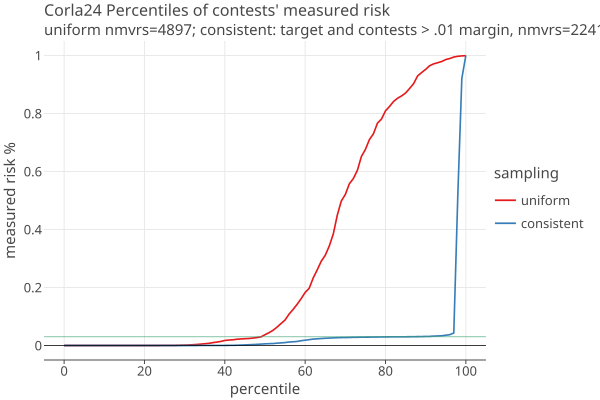
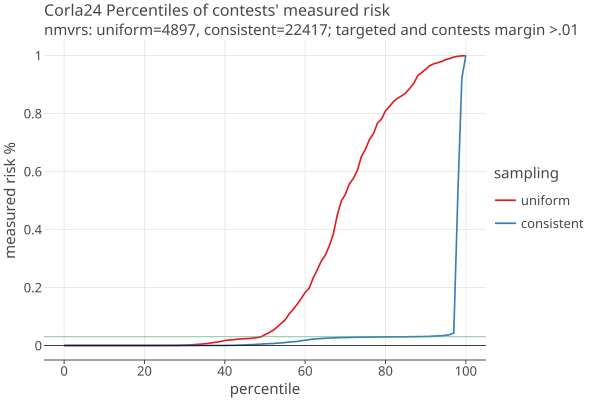
Merge pull request #643 from JohnLCaron/countyContestWriteup2
writeup for Corla County Audits (2)

Pull request: writeup for Corla County Audits (2)

Changed region(s): [[0.09, 0.06, 1.0, 0.09]]

diff --git a/docs/cases/Corla24Dist/Corla24Dist-AllGt01.html b/docs/cases/Corla24Dist/Corla24Dist-AllGt01.html
@@ -5,7 +5,7 @@
        &lt;script type=&quot;text/javascript&quot; data-lets-plot-script=&quot;library&quot; src=&quot;https://cdn.jsdelivr.net/gh/JetBrains/lets-plot@v4.7.3/js-package/distr/lets-plot.min.js&quot;>&lt;/script>
    &lt;/head>
    &lt;body>
-          &lt;div id=&quot;DPLYjS&quot;>&lt;/div>
+          &lt;div id=&quot;e29TAG&quot;>&lt;/div>
    &lt;script type=&quot;text/javascript&quot; data-lets-plot-script=&quot;plot&quot;>
    
    (function() {
@@ -30,7 +30,7 @@
        };
    }
    
-   const containerDiv = document.getElementById(&quot;DPLYjS&quot;);
+   const containerDiv = document.getElementById(&quot;e29TAG&quot;);
    let fig = null;
    
    function renderPlot() {
@@ -38,7 +38,7 @@
            const plotSpec = {
 &quot;ggtitle&quot;:{
 &quot;text&quot;:&quot;Corla24 Percentiles of contests' measured risk&quot;,
-&quot;subtitle&quot;:&quot;uniform nmvrs=4897; consistent: target and contests > .01 margin, nmvrs=22417&quot;
+&quot;subtitle&quot;:&quot;nmvrs: uniform=4897, consistent=22417; targeted and contests margin >.01&quot;
 },
 &quot;mapping&quot;:{
 },
@@ -64,8 +64,8 @@
 },
 &quot;stat&quot;:&quot;identity&quot;,
 &quot;data&quot;:{
-&quot;measured risk %&quot;:[1.0070128403098608E-73,4.102843412737893E-37,1.456634525928541E-29,1.4676685699431626E-13,2.130805119689085E-11,1.528549311069079E-9,8.041035766136632E-9,1.778722498523578E-8,2.1631528715704353E-8,2.985470749877318E-8,4.248521487516482E-8,6.913880942824848E-8,1.4018083910982606E-7,3.4709530286468425E-7,6.51229281106998E-7,9.907889932496173E-7,1.47428275229085E-6,2.09037281228549E-6,4.477433129903504E-6,6.488737282499942E-6,8.857186057667665E-6,1.3413430337423176E-5,1.9729479336756936E-5,3.457733412230658E-5,4.449460411158998E-5,6.653582580347744E-5,1.448267566466622E-4,1.8563928528583112E-4,4.686369578552635E-4,8.142348883767096E-4,0.001235332880004762,0.001704230451577954,0.002659837447491927,0.0035444736431579143,0.004749982883787656,0.006026456455622013,0.007405641645017303,0.009766828522373785,0.01177723026684036,0.013881311090743084,0.017424862430230083,0.01880828323065658,0.01965613743289116,0.021517400647588343,0.022698380170025692,0.02339994113394213,0.024199501671104635,0.025640344768423116,0.027431300887929735,0.029755697747050062,0.03717920339132397,0.0441875023195649,0.05229945602888559,0.06333763076874213,0.07576961318379145,0.08801661929325422,0.10828631737600598,0.12428707812768802,0.14198655278350997,0.16152381905606716,0.18286868414334195,0.19724282041625518,0.23278771364554682,0.26073841187942104,0.2904445547327252,0.31110862042578025,0.3429371931537619,0.38415832312845555,0.4496689918259471,0.49828745392103757,0.5208374347077285,0.5575333368001356,0.5757665397150865,0.6040329011928425,0.6517041323991247,0.6761300635780854,0.7101394540581585,0.7300884374896253,0.7667623947454686,0.780842818859668,0.8089800399303451,0.8243149417520782,0.8413266110794655,0.852654944898069,0.8605120298705209,0.870628039713851,0.8862774026930345,0.9030442926952572,0.9296037952101159,0.9412921638313757,0.9521914658539309,0.9648015085658312,0.971228479104697,0.9751118653226765,0.9792113303152653,0.9860684880681355,0.9895590325466536,0.9946388985509582,0.9972893967466187,0.9986069965169122,0.9992925097058623,2.45360084547548E-93,9.311497825892457E-64,1.3396191828387215E-46,6.954439395857526E-44,7.836876764304282E-38,4.1183880121154645E-34,8.873006622716624E-27,4.2577916173752045E-20,5.5851479630563335E-18,7.262937264896127E-16,4.883692445847292E-15,2.1639024945173427E-14,3.4185300763788333E-13,7.417472759875188E-12,3.931046439480211E-11,4.856592950253175E-10,1.343767726069391E-9,2.421852403794267E-9,9.252983295445009E-9,1.5499068588511633E-8,2.0271109511894914E-8,2.8660460132662238E-8,4.188458350027806E-8,7.43578056996158E-8,1.4144054182984988E-7,2.1579795879273842E-7,6.697802600234927E-7,1.8515548027544757E-6,2.533276547570251E-6,3.880100636383336E-6,7.434139347926566E-6,1.3196463578803427E-5,2.4514997382815832E-5,4.00085668253125E-5,5.3647782098556006E-5,7.261557029023175E-5,1.0504205769481141E-4,1.5433256061788455E-4,1.9326923275809324E-4,2.4016603396404655E-4,3.744123158075792E-4,4.790899670917214E-4,6.285550084839304E-4,0.0010462416354310585,0.001413430445979139,0.0020270210874979216,0.0026315989642301542,0.003240334363333208,0.003978660913182356,0.004854297946662776,0.005714359761531484,0.006348394811403526,0.006708751381834876,0.008069339980371711,0.008963809047425044,0.010109009720911315,0.011958386275969233,0.012774411207486106,0.013951858196313399,0.016547405610677593,0.018222362247322543,0.020134488411882683,0.022189579412338775,0.023044225161805924,0.023990683664125604,0.024997829341389194,0.02552787106024232,0.026338331844414194,0.02683272666198883,0.02719508698878751,0.027381364546907896,0.027747472802757956,0.028179672388298556,0.02840996976502948,0.028671519654668624,0.02882889190529646,0.02890879191834569,0.02910975210550843,0.029314030451490277,0.029532171048571785,0.02967891017764978,0.029795167736822503,0.029856187287549497,0.029913988214201333,0.030049487582896096,0.03009879130567969,0.030202923616312438,0.03049188468860786,0.03060057381889041,0.03084751284501964,0.031236092339148817,0.031421289842349265,0.032480419263529375,0.032909558356165346,0.033541323202014216,0.035480995172595065,0.037300068514502675,0.043048439349527,0.5178461606491397,0.9207856319524143,1.0],
 &quot;&amp;merged_groups&quot;:[&quot;uniform&quot;,&quot;uniform&quot;,&quot;uniform&quot;,&quot;uniform&quot;,&quot;uniform&quot;,&quot;uniform&quot;,&quot;uniform&quot;,&quot;uniform&quot;,&quot;uniform&quot;,&quot;uniform&quot;,&quot;uniform&quot;,&quot;uniform&quot;,&quot;uniform&quot;,&quot;uniform&quot;,&quot;uniform&quot;,&quot;uniform&quot;,&quot;uniform&quot;,&quot;uniform&quot;,&quot;uniform&quot;,&quot;uniform&quot;,&quot;uniform&quot;,&quot;uniform&quot;,&quot;uniform&quot;,&quot;uniform&quot;,&quot;uniform&quot;,&quot;uniform&quot;,&quot;uniform&quot;,&quot;uniform&quot;,&quot;uniform&quot;,&quot;uniform&quot;,&quot;uniform&quot;,&quot;uniform&quot;,&quot;uniform&quot;,&quot;uniform&quot;,&quot;uniform&quot;,&quot;uniform&quot;,&quot;uniform&quot;,&quot;uniform&quot;,&quot;uniform&quot;,&quot;uniform&quot;,&quot;uniform&quot;,&quot;uniform&quot;,&quot;uniform&quot;,&quot;uniform&quot;,&quot;uniform&quot;,&quot;uniform&quot;,&quot;uniform&quot;,&quot;uniform&quot;,&quot;uniform&quot;,&quot;uniform&quot;,&quot;uniform&quot;,&quot;uniform&quot;,&quot;uniform&quot;,&quot;uniform&quot;,&quot;uniform&quot;,&quot;uniform&quot;,&quot;uniform&quot;,&quot;uniform&quot;,&quot;uniform&quot;,&quot;uniform&quot;,&quot;uniform&quot;,&quot;uniform&quot;,&quot;uniform&quot;,&quot;uniform&quot;,&quot;uniform&quot;,&quot;uniform&quot;,&quot;uniform&quot;,&quot;uniform&quot;,&quot;uniform&quot;,&quot;uniform&quot;,&quot;uniform&quot;,&quot;uniform&quot;,&quot;uniform&quot;,&quot;uniform&quot;,&quot;uniform&quot;,&quot;uniform&quot;,&quot;uniform&quot;,&quot;uniform&quot;,&quot;uniform&quot;,&quot;uniform&quot;,&quot;uniform&quot;,&quot;uniform&quot;,&quot;uniform&quot;,&quot;uniform&quot;,&quot;uniform&quot;,&quot;uniform&quot;,&quot;uniform&quot;,&quot;uniform&quot;,&quot;uniform&quot;,&quot;uniform&quot;,&quot;uniform&quot;,&quot;uniform&quot;,&quot;uniform&quot;,&quot;uniform&quot;,&quot;uniform&quot;,&quot;uniform&quot;,&quot;uniform&quot;,&quot;uniform&quot;,&quot;uniform&quot;,&quot;uniform&quot;,&quot;uniform&quot;,&quot;consistent&quot;,&quot;consistent&quot;,&quot;consistent&quot;,&quot;consistent&quot;,&quot;consistent&quot;,&quot;consistent&quot;,&quot;consistent&quot;,&quot;consistent&quot;,&quot;consistent&quot;,&quot;consistent&quot;,&quot;consistent&quot;,&quot;consistent&quot;,&quot;consistent&quot;,&quot;consistent&quot;,&quot;consistent&quot;,&quot;consistent&quot;,&quot;consistent&quot;,&quot;consistent&quot;,&quot;consistent&quot;,&quot;consistent&quot;,&quot;consistent&quot;,&quot;consistent&quot;,&quot;consistent&quot;,&quot;consistent&quot;,&quot;consistent&quot;,&quot;consistent&quot;,&quot;consistent&quot;,&quot;consistent&quot;,&quot;consistent&quot;,&quot;consistent&quot;,&quot;consistent&quot;,&quot;consistent&quot;,&quot;consistent&quot;,&quot;consistent&quot;,&quot;consistent&quot;,&quot;consistent&quot;,&quot;consistent&quot;,&quot;consistent&quot;,&quot;consistent&quot;,&quot;consistent&quot;,&quot;consistent&quot;,&quot;consistent&quot;,&quot;consistent&quot;,&quot;consistent&quot;,&quot;consistent&quot;,&quot;consistent&quot;,&quot;consistent&quot;,&quot;consistent&quot;,&quot;consistent&quot;,&quot;consistent&quot;,&quot;consistent&quot;,&quot;consistent&quot;,&quot;consistent&quot;,&quot;consistent&quot;,&quot;consistent&quot;,&quot;consistent&quot;,&quot;consistent&quot;,&quot;consistent&quot;,&quot;consistent&quot;,&quot;consistent&quot;,&quot;consistent&quot;,&quot;consistent&quot;,&quot;consistent&quot;,&quot;consistent&quot;,&quot;consistent&quot;,&quot;consistent&quot;,&quot;consistent&quot;,&quot;consistent&quot;,&quot;consistent&quot;,&quot;consistent&quot;,&quot;consistent&quot;,&quot;consistent&quot;,&quot;consistent&quot;,&quot;consistent&quot;,&quot;consistent&quot;,&quot;consistent&quot;,&quot;consistent&quot;,&quot;consistent&quot;,&quot;consistent&quot;,&quot;consistent&quot;,&quot;consistent&quot;,&quot;consistent&quot;,&quot;consistent&quot;,&quot;consistent&quot;,&quot;consistent&quot;,&quot;consistent&quot;,&quot;consistent&quot;,&quot;consistent&quot;,&quot;consistent&quot;,&quot;consistent&quot;,&quot;consistent&quot;,&quot;consistent&quot;,&quot;consistent&quot;,&quot;consistent&quot;,&quot;consistent&quot;,&quot;consistent&quot;,&quot;consistent&quot;,&quot;consistent&quot;,&quot;consistent&quot;,&quot;consistent&quot;,&quot;consistent&quot;],
+&quot;measured risk %&quot;:[1.0070128403098608E-73,4.102843412737893E-37,1.456634525928541E-29,1.4676685699431626E-13,2.130805119689085E-11,1.528549311069079E-9,8.041035766136632E-9,1.778722498523578E-8,2.1631528715704353E-8,2.985470749877318E-8,4.248521487516482E-8,6.913880942824848E-8,1.4018083910982606E-7,3.4709530286468425E-7,6.51229281106998E-7,9.907889932496173E-7,1.47428275229085E-6,2.09037281228549E-6,4.477433129903504E-6,6.488737282499942E-6,8.857186057667665E-6,1.3413430337423176E-5,1.9729479336756936E-5,3.457733412230658E-5,4.449460411158998E-5,6.653582580347744E-5,1.448267566466622E-4,1.8563928528583112E-4,4.686369578552635E-4,8.142348883767096E-4,0.001235332880004762,0.001704230451577954,0.002659837447491927,0.0035444736431579143,0.004749982883787656,0.006026456455622013,0.007405641645017303,0.009766828522373785,0.01177723026684036,0.013881311090743084,0.017424862430230083,0.01880828323065658,0.01965613743289116,0.021517400647588343,0.022698380170025692,0.02339994113394213,0.024199501671104635,0.025640344768423116,0.027431300887929735,0.029755697747050062,0.03717920339132397,0.0441875023195649,0.05229945602888559,0.06333763076874213,0.07576961318379145,0.08801661929325422,0.10828631737600598,0.12428707812768802,0.14198655278350997,0.16152381905606716,0.18286868414334195,0.19724282041625518,0.23278771364554682,0.26073841187942104,0.2904445547327252,0.31110862042578025,0.3429371931537619,0.38415832312845555,0.4496689918259471,0.49828745392103757,0.5208374347077285,0.5575333368001356,0.5757665397150865,0.6040329011928425,0.6517041323991247,0.6761300635780854,0.7101394540581585,0.7300884374896253,0.7667623947454686,0.780842818859668,0.8089800399303451,0.8243149417520782,0.8413266110794655,0.852654944898069,0.8605120298705209,0.870628039713851,0.8862774026930345,0.9030442926952572,0.9296037952101159,0.9412921638313757,0.9521914658539309,0.9648015085658312,0.971228479104697,0.9751118653226765,0.9792113303152653,0.9860684880681355,0.9895590325466536,0.9946388985509582,0.9972893967466187,0.9986069965169122,0.9992925097058623,2.45360084547548E-93,9.311497825892457E-64,1.3396191828387215E-46,6.954439395857526E-44,7.836876764304282E-38,4.1183880121154645E-34,8.873006622716624E-27,4.2577916173752045E-20,5.5851479630563335E-18,7.262937264896127E-16,4.883692445847292E-15,2.1639024945173427E-14,3.4185300763788333E-13,7.417472759875188E-12,3.931046439480211E-11,4.856592950253175E-10,1.343767726069391E-9,2.421852403794267E-9,9.252983295445009E-9,1.5499068588511633E-8,2.0271109511894914E-8,2.8660460132662238E-8,4.188458350027806E-8,7.43578056996158E-8,1.4144054182984988E-7,2.1579795879273842E-7,6.697802600234927E-7,1.8515548027544757E-6,2.533276547570251E-6,3.880100636383336E-6,7.434139347926566E-6,1.3196463578803427E-5,2.4514997382815832E-5,4.00085668253125E-5,5.3647782098556006E-5,7.261557029023175E-5,1.0504205769481141E-4,1.5433256061788455E-4,1.9326923275809324E-4,2.4016603396404655E-4,3.744123158075792E-4,4.790899670917214E-4,6.285550084839304E-4,0.0010462416354310585,0.001413430445979139,0.0020270210874979216,0.0026315989642301542,0.003240334363333208,0.003978660913182356,0.004854297946662776,0.005714359761531484,0.006348394811403526,0.006708751381834876,0.008069339980371711,0.008963809047425044,0.010109009720911315,0.011958386275969233,0.012774411207486106,0.013951858196313399,0.016547405610677593,0.018222362247322543,0.020134488411882683,0.022189579412338775,0.023044225161805924,0.023990683664125604,0.024997829341389194,0.02552787106024232,0.026338331844414194,0.02683272666198883,0.02719508698878751,0.027381364546907896,0.027747472802757956,0.028179672388298556,0.02840996976502948,0.028671519654668624,0.02882889190529646,0.02890879191834569,0.02910975210550843,0.029314030451490277,0.029532171048571785,0.02967891017764978,0.029795167736822503,0.029856187287549497,0.029913988214201333,0.030049487582896096,0.03009879130567969,0.030202923616312438,0.03049188468860786,0.03060057381889041,0.03084751284501964,0.031236092339148817,0.031421289842349265,0.032480419263529375,0.032909558356165346,0.033541323202014216,0.035480995172595065,0.037300068514502675,0.043048439349527,0.5178461606491397,0.9207856319524143,1.0],
 &quot;percentile&quot;:[0.0,1.0,2.0,3.0,4.0,5.0,6.0,7.0,8.0,9.0,10.0,11.0,12.0,13.0,14.0,15.0,16.0,17.0,18.0,19.0,20.0,21.0,22.0,23.0,24.0,25.0,26.0,27.0,28.0,29.0,30.0,31.0,32.0,33.0,34.0,35.0,36.0,37.0,38.0,39.0,40.0,41.0,42.0,43.0,44.0,45.0,46.0,47.0,48.0,49.0,50.0,51.0,52.0,53.0,54.0,55.0,56.0,57.0,58.0,59.0,60.0,61.0,62.0,63.0,64.0,65.0,66.0,67.0,68.0,69.0,70.0,71.0,72.0,73.0,74.0,75.0,76.0,77.0,78.0,79.0,80.0,81.0,82.0,83.0,84.0,85.0,86.0,87.0,88.0,89.0,90.0,91.0,92.0,93.0,94.0,95.0,96.0,97.0,98.0,99.0,100.0,0.0,1.0,2.0,3.0,4.0,5.0,6.0,7.0,8.0,9.0,10.0,11.0,12.0,13.0,14.0,15.0,16.0,17.0,18.0,19.0,20.0,21.0,22.0,23.0,24.0,25.0,26.0,27.0,28.0,29.0,30.0,31.0,32.0,33.0,34.0,35.0,36.0,37.0,38.0,39.0,40.0,41.0,42.0,43.0,44.0,45.0,46.0,47.0,48.0,49.0,50.0,51.0,52.0,53.0,54.0,55.0,56.0,57.0,58.0,59.0,60.0,61.0,62.0,63.0,64.0,65.0,66.0,67.0,68.0,69.0,70.0,71.0,72.0,73.0,74.0,75.0,76.0,77.0,78.0,79.0,80.0,81.0,82.0,83.0,84.0,85.0,86.0,87.0,88.0,89.0,90.0,91.0,92.0,93.0,94.0,95.0,96.0,97.0,98.0,99.0,100.0],
 &quot;sampling&quot;:[&quot;uniform&quot;,&quot;uniform&quot;,&quot;uniform&quot;,&quot;uniform&quot;,&quot;uniform&quot;,&quot;uniform&quot;,&quot;uniform&quot;,&quot;uniform&quot;,&quot;uniform&quot;,&quot;uniform&quot;,&quot;uniform&quot;,&quot;uniform&quot;,&quot;uniform&quot;,&quot;uniform&quot;,&quot;uniform&quot;,&quot;uniform&quot;,&quot;uniform&quot;,&quot;uniform&quot;,&quot;uniform&quot;,&quot;uniform&quot;,&quot;uniform&quot;,&quot;uniform&quot;,&quot;uniform&quot;,&quot;uniform&quot;,&quot;uniform&quot;,&quot;uniform&quot;,&quot;uniform&quot;,&quot;uniform&quot;,&quot;uniform&quot;,&quot;uniform&quot;,&quot;uniform&quot;,&quot;uniform&quot;,&quot;uniform&quot;,&quot;uniform&quot;,&quot;uniform&quot;,&quot;uniform&quot;,&quot;uniform&quot;,&quot;uniform&quot;,&quot;uniform&quot;,&quot;uniform&quot;,&quot;uniform&quot;,&quot;uniform&quot;,&quot;uniform&quot;,&quot;uniform&quot;,&quot;uniform&quot;,&quot;uniform&quot;,&quot;uniform&quot;,&quot;uniform&quot;,&quot;uniform&quot;,&quot;uniform&quot;,&quot;uniform&quot;,&quot;uniform&quot;,&quot;uniform&quot;,&quot;uniform&quot;,&quot;uniform&quot;,&quot;uniform&quot;,&quot;uniform&quot;,&quot;uniform&quot;,&quot;uniform&quot;,&quot;uniform&quot;,&quot;uniform&quot;,&quot;uniform&quot;,&quot;uniform&quot;,&quot;uniform&quot;,&quot;uniform&quot;,&quot;uniform&quot;,&quot;uniform&quot;,&quot;uniform&quot;,&quot;uniform&quot;,&quot;uniform&quot;,&quot;uniform&quot;,&quot;uniform&quot;,&quot;uniform&quot;,&quot;uniform&quot;,&quot;uniform&quot;,&quot;uniform&quot;,&quot;uniform&quot;,&quot;uniform&quot;,&quot;uniform&quot;,&quot;uniform&quot;,&quot;uniform&quot;,&quot;uniform&quot;,&quot;uniform&quot;,&quot;uniform&quot;,&quot;uniform&quot;,&quot;uniform&quot;,&quot;uniform&quot;,&quot;uniform&quot;,&quot;uniform&quot;,&quot;uniform&quot;,&quot;uniform&quot;,&quot;uniform&quot;,&quot;uniform&quot;,&quot;uniform&quot;,&quot;uniform&quot;,&quot;uniform&quot;,&quot;uniform&quot;,&quot;uniform&quot;,&quot;uniform&quot;,&quot;uniform&quot;,&quot;uniform&quot;,&quot;consistent&quot;,&quot;consistent&quot;,&quot;consistent&quot;,&quot;consistent&quot;,&quot;consistent&quot;,&quot;consistent&quot;,&quot;consistent&quot;,&quot;consistent&quot;,&quot;consistent&quot;,&quot;consistent&quot;,&quot;consistent&quot;,&quot;consistent&quot;,&quot;consistent&quot;,&quot;consistent&quot;,&quot;consistent&quot;,&quot;consistent&quot;,&quot;consistent&quot;,&quot;consistent&quot;,&quot;consistent&quot;,&quot;consistent&quot;,&quot;consistent&quot;,&quot;consistent&quot;,&quot;consistent&quot;,&quot;consistent&quot;,&quot;consistent&quot;,&quot;consistent&quot;,&quot;consistent&quot;,&quot;consistent&quot;,&quot;consistent&quot;,&quot;consistent&quot;,&quot;consistent&quot;,&quot;consistent&quot;,&quot;consistent&quot;,&quot;consistent&quot;,&quot;consistent&quot;,&quot;consistent&quot;,&quot;consistent&quot;,&quot;consistent&quot;,&quot;consistent&quot;,&quot;consistent&quot;,&quot;consistent&quot;,&quot;consistent&quot;,&quot;consistent&quot;,&quot;consistent&quot;,&quot;consistent&quot;,&quot;consistent&quot;,&quot;consistent&quot;,&quot;consistent&quot;,&quot;consistent&quot;,&quot;consistent&quot;,&quot;consistent&quot;,&quot;consistent&quot;,&quot;consistent&quot;,&quot;consistent&quot;,&quot;consistent&quot;,&quot;consistent&quot;,&quot;consistent&quot;,&quot;consistent&quot;,&quot;consistent&quot;,&quot;consistent&quot;,&quot;consistent&quot;,&quot;consistent&quot;,&quot;consistent&quot;,&quot;consistent&quot;,&quot;consistent&quot;,&quot;consistent&quot;,&quot;consistent&quot;,&quot;consistent&quot;,&quot;consistent&quot;,&quot;consistent&quot;,&quot;consistent&quot;,&quot;consistent&quot;,&quot;consistent&quot;,&quot;consistent&quot;,&quot;consistent&quot;,&quot;consistent&quot;,&quot;consistent&quot;,&quot;consistent&quot;,&quot;consistent&quot;,&quot;consistent&quot;,&quot;consistent&quot;,&quot;consistent&quot;,&quot;consistent&quot;,&quot;consistent&quot;,&quot;consistent&quot;,&quot;consistent&quot;,&quot;consistent&quot;,&quot;consistent&quot;,&quot;consistent&quot;,&quot;consistent&quot;,&quot;consistent&quot;,&quot;consistent&quot;,&quot;consistent&quot;,&quot;consistent&quot;,&quot;consistent&quot;,&quot;consistent&quot;,&quot;consistent&quot;,&quot;consistent&quot;,&quot;consistent&quot;,&quot;consistent&quot;,&quot;consistent&quot;]
 },

diff --git a/docs/cases/Corla24Dist/Corla24Dist-AllGt02.html b/docs/cases/Corla24Dist/Corla24Dist-AllGt02.html
@@ -5,7 +5,7 @@
        &lt;script type=&quot;text/javascript&quot; data-lets-plot-script=&quot;library&quot; src=&quot;https://cdn.jsdelivr.net/gh/JetBrains/lets-plot@v4.7.3/js-package/distr/lets-plot.min.js&quot;>&lt;/script>
    &lt;/head>
    &lt;body>
-          &lt;div id=&quot;xkTHKn&quot;>&lt;/div>
+          &lt;div id=&quot;Uu9eRR&quot;>&lt;/div>
    &lt;script type=&quot;text/javascript&quot; data-lets-plot-script=&quot;plot&quot;>
    
    (function() {
@@ -30,7 +30,7 @@
        };
    }
    
-   const containerDiv = document.getElementById(&quot;xkTHKn&quot;);
+   const containerDiv = document.getElementById(&quot;Uu9eRR&quot;);
    let fig = null;
    
    function renderPlot() {
@@ -38,7 +38,7 @@
            const plotSpec = {
 &quot;ggtitle&quot;:{
 &quot;text&quot;:&quot;Corla24 Percentiles of contests' measured risk&quot;,
-&quot;subtitle&quot;:&quot;uniform nmvrs=4897; consistent: target and contests > .02 margin, nmvrs=15417&quot;
+&quot;subtitle&quot;:&quot;nmvrs: uniform=4897, consistent=15417; targeted and contests margin >.02&quot;
 },
 &quot;mapping&quot;:{
 },
@@ -64,8 +64,8 @@
 },
 &quot;stat&quot;:&quot;identity&quot;,
 &quot;data&quot;:{
-&quot;measured risk %&quot;:[1.0070128403098608E-73,4.102843412737893E-37,1.456634525928541E-29,1.4676685699431626E-13,2.130805119689085E-11,1.528549311069079E-9,8.041035766136632E-9,1.778722498523578E-8,2.1631528715704353E-8,2.985470749877318E-8,4.248521487516482E-8,6.913880942824848E-8,1.4018083910982606E-7,3.4709530286468425E-7,6.51229281106998E-7,9.907889932496173E-7,1.47428275229085E-6,2.09037281228549E-6,4.477433129903504E-6,6.488737282499942E-6,8.857186057667665E-6,1.3413430337423176E-5,1.9729479336756936E-5,3.457733412230658E-5,4.449460411158998E-5,6.653582580347744E-5,1.448267566466622E-4,1.8563928528583112E-4,4.686369578552635E-4,8.142348883767096E-4,0.001235332880004762,0.001704230451577954,0.002659837447491927,0.0035444736431579143,0.004749982883787656,0.006026456455622013,0.007405641645017303,0.009766828522373785,0.01177723026684036,0.013881311090743084,0.017424862430230083,0.01880828323065658,0.01965613743289116,0.021517400647588343,0.022698380170025692,0.02339994113394213,0.024199501671104635,0.025640344768423116,0.027431300887929735,0.029755697747050062,0.03717920339132397,0.0441875023195649,0.05229945602888559,0.06333763076874213,0.07576961318379145,0.08801661929325422,0.10828631737600598,0.12428707812768802,0.14198655278350997,0.16152381905606716,0.18286868414334195,0.19724282041625518,0.23278771364554682,0.26073841187942104,0.2904445547327252,0.31110862042578025,0.3429371931537619,0.38415832312845555,0.4496689918259471,0.49828745392103757,0.5208374347077285,0.5575333368001356,0.5757665397150865,0.6040329011928425,0.6517041323991247,0.6761300635780854,0.7101394540581585,0.7300884374896253,0.7667623947454686,0.780842818859668,0.8089800399303451,0.8243149417520782,0.8413266110794655,0.852654944898069,0.8605120298705209,0.870628039713851,0.8862774026930345,0.9030442926952572,0.9296037952101159,0.9412921638313757,0.9521914658539309,0.9648015085658312,0.971228479104697,0.9751118653226765,0.9792113303152653,0.9860684880681355,0.9895590325466536,0.9946388985509582,0.9972893967466187,0.9986069965169122,0.9992925097058623,3.263361233563085E-86,9.135427438731294E-46,1.0846620778390306E-33,1.4086167891908078E-18,7.381643120867139E-16,7.23982802674896E-15,2.2436287517899626E-13,4.8668810190561985E-12,3.570809719675113E-11,4.72256075796401E-10,1.310299275233162E-9,2.170933782615228E-9,8.077529229081007E-9,1.5596481260914845E-8,2.0487990709306364E-8,2.851169656119761E-8,4.0480506306215035E-8,7.512852330358987E-8,1.5140365962753328E-7,2.1672605728742004E-7,6.721798469920197E-7,1.7547398810059983E-6,2.4956685884262863E-6,3.721684517083564E-6,6.900640178197605E-6,1.1772125966951915E-5,1.4248238185855033E-5,2.4291532850708515E-5,3.915979803532883E-5,4.9411590269644596E-5,6.875705481218479E-5,9.229788289115088E-5,1.270689115171845E-4,1.5470924247730004E-4,1.886174492476128E-4,2.3177252745955833E-4,3.441935320971149E-4,4.677668612157896E-4,6.450188066172373E-4,9.904788507087909E-4,0.0014392544730801016,0.001966054808248185,0.0026998156372664696,0.0032048922905044386,0.0036088867142072454,0.004349551276466473,0.005282073191363812,0.005893944718307252,0.006632350261433363,0.00793141155248133,0.008493955489092465,0.00985610889210981,0.01194147865184882,0.012673299088856867,0.013913485777721077,0.016368916933648538,0.018499491653077026,0.02069016791460321,0.02226667177637106,0.02321379559370367,0.024362169424399387,0.02540543150798908,0.025846827950223743,0.026348867789576055,0.02683165429796175,0.02716200309720515,0.027331035833184854,0.027646399148258546,0.02808289133657982,0.028313042572623678,0.02841832253854838,0.02866260593735251,0.028777192920555802,0.02887634296444262,0.02899355399951617,0.02920917719230612,0.029350428885122796,0.029545682234385456,0.029695719765867306,0.029798873343026156,0.029872438853808997,0.029934961322417263,0.030048542716674655,0.030101312795360914,0.030179626996410993,0.03040813038599753,0.03057581865361085,0.030965626689626373,0.03135879033235006,0.03213274937587807,0.032585709236089236,0.03314444037157722,0.034114500616594406,0.0366828074908123,0.038423556685521075,0.18704504594127255,0.5565105651296682,0.6118023592952875,0.7776168585643833,0.960612880780629,1.0],
 &quot;&amp;merged_groups&quot;:[&quot;uniform&quot;,&quot;uniform&quot;,&quot;uniform&quot;,&quot;uniform&quot;,&quot;uniform&quot;,&quot;uniform&quot;,&quot;uniform&quot;,&quot;uniform&quot;,&quot;uniform&quot;,&quot;uniform&quot;,&quot;uniform&quot;,&quot;uniform&quot;,&quot;uniform&quot;,&quot;uniform&quot;,&quot;uniform&quot;,&quot;uniform&quot;,&quot;uniform&quot;,&quot;uniform&quot;,&quot;uniform&quot;,&quot;uniform&quot;,&quot;uniform&quot;,&quot;uniform&quot;,&quot;uniform&quot;,&quot;uniform&quot;,&quot;uniform&quot;,&quot;uniform&quot;,&quot;uniform&quot;,&quot;uniform&quot;,&quot;uniform&quot;,&quot;uniform&quot;,&quot;uniform&quot;,&quot;uniform&quot;,&quot;uniform&quot;,&quot;uniform&quot;,&quot;uniform&quot;,&quot;uniform&quot;,&quot;uniform&quot;,&quot;uniform&quot;,&quot;uniform&quot;,&quot;uniform&quot;,&quot;uniform&quot;,&quot;uniform&quot;,&quot;uniform&quot;,&quot;uniform&quot;,&quot;uniform&quot;,&quot;uniform&quot;,&quot;uniform&quot;,&quot;uniform&quot;,&quot;uniform&quot;,&quot;uniform&quot;,&quot;uniform&quot;,&quot;uniform&quot;,&quot;uniform&quot;,&quot;uniform&quot;,&quot;uniform&quot;,&quot;uniform&quot;,&quot;uniform&quot;,&quot;uniform&quot;,&quot;uniform&quot;,&quot;uniform&quot;,&quot;uniform&quot;,&quot;uniform&quot;,&quot;uniform&quot;,&quot;uniform&quot;,&quot;uniform&quot;,&quot;uniform&quot;,&quot;uniform&quot;,&quot;uniform&quot;,&quot;uniform&quot;,&quot;uniform&quot;,&quot;uniform&quot;,&quot;uniform&quot;,&quot;uniform&quot;,&quot;uniform&quot;,&quot;uniform&quot;,&quot;uniform&quot;,&quot;uniform&quot;,&quot;uniform&quot;,&quot;uniform&quot;,&quot;uniform&quot;,&quot;uniform&quot;,&quot;uniform&quot;,&quot;uniform&quot;,&quot;uniform&quot;,&quot;uniform&quot;,&quot;uniform&quot;,&quot;uniform&quot;,&quot;uniform&quot;,&quot;uniform&quot;,&quot;uniform&quot;,&quot;uniform&quot;,&quot;uniform&quot;,&quot;uniform&quot;,&quot;uniform&quot;,&quot;uniform&quot;,&quot;uniform&quot;,&quot;uniform&quot;,&quot;uniform&quot;,&quot;uniform&quot;,&quot;uniform&quot;,&quot;uniform&quot;,&quot;consistent&quot;,&quot;consistent&quot;,&quot;consistent&quot;,&quot;consistent&quot;,&quot;consistent&quot;,&quot;consistent&quot;,&quot;consistent&quot;,&quot;consistent&quot;,&quot;consistent&quot;,&quot;consistent&quot;,&quot;consistent&quot;,&quot;consistent&quot;,&quot;consistent&quot;,&quot;consistent&quot;,&quot;consistent&quot;,&quot;consistent&quot;,&quot;consistent&quot;,&quot;consistent&quot;,&quot;consistent&quot;,&quot;consistent&quot;,&quot;consistent&quot;,&quot;consistent&quot;,&quot;consistent&quot;,&quot;consistent&quot;,&quot;consistent&quot;,&quot;consistent&quot;,&quot;consistent&quot;,&quot;consistent&quot;,&quot;consistent&quot;,&quot;consistent&quot;,&quot;consistent&quot;,&quot;consistent&quot;,&quot;consistent&quot;,&quot;consistent&quot;,&quot;consistent&quot;,&quot;consistent&quot;,&quot;consistent&quot;,&quot;consistent&quot;,&quot;consistent&quot;,&quot;consistent&quot;,&quot;consistent&quot;,&quot;consistent&quot;,&quot;consistent&quot;,&quot;consistent&quot;,&quot;consistent&quot;,&quot;consistent&quot;,&quot;consistent&quot;,&quot;consistent&quot;,&quot;consistent&quot;,&quot;consistent&quot;,&quot;consistent&quot;,&quot;consistent&quot;,&quot;consistent&quot;,&quot;consistent&quot;,&quot;consistent&quot;,&quot;consistent&quot;,&quot;consistent&quot;,&quot;consistent&quot;,&quot;consistent&quot;,&quot;consistent&quot;,&quot;consistent&quot;,&quot;consistent&quot;,&quot;consistent&quot;,&quot;consistent&quot;,&quot;consistent&quot;,&quot;consistent&quot;,&quot;consistent&quot;,&quot;consistent&quot;,&quot;consistent&quot;,&quot;consistent&quot;,&quot;consistent&quot;,&quot;consistent&quot;,&quot;consistent&quot;,&quot;consistent&quot;,&quot;consistent&quot;,&quot;consistent&quot;,&quot;consistent&quot;,&quot;consistent&quot;,&quot;consistent&quot;,&quot;consistent&quot;,&quot;consistent&quot;,&quot;consistent&quot;,&quot;consistent&quot;,&quot;consistent&quot;,&quot;consistent&quot;,&quot;consistent&quot;,&quot;consistent&quot;,&quot;consistent&quot;,&quot;consistent&quot;,&quot;consistent&quot;,&quot;consistent&quot;,&quot;consistent&quot;,&quot;consistent&quot;,&quot;consistent&quot;,&quot;consistent&quot;,&quot;consistent&quot;,&quot;consistent&quot;,&quot;consistent&quot;,&quot;consistent&quot;,&quot;consistent&quot;,&quot;consistent&quot;],
+&quot;measured risk %&quot;:[1.0070128403098608E-73,4.102843412737893E-37,1.456634525928541E-29,1.4676685699431626E-13,2.130805119689085E-11,1.528549311069079E-9,8.041035766136632E-9,1.778722498523578E-8,2.1631528715704353E-8,2.985470749877318E-8,4.248521487516482E-8,6.913880942824848E-8,1.4018083910982606E-7,3.4709530286468425E-7,6.51229281106998E-7,9.907889932496173E-7,1.47428275229085E-6,2.09037281228549E-6,4.477433129903504E-6,6.488737282499942E-6,8.857186057667665E-6,1.3413430337423176E-5,1.9729479336756936E-5,3.457733412230658E-5,4.449460411158998E-5,6.653582580347744E-5,1.448267566466622E-4,1.8563928528583112E-4,4.686369578552635E-4,8.142348883767096E-4,0.001235332880004762,0.001704230451577954,0.002659837447491927,0.0035444736431579143,0.004749982883787656,0.006026456455622013,0.007405641645017303,0.009766828522373785,0.01177723026684036,0.013881311090743084,0.017424862430230083,0.01880828323065658,0.01965613743289116,0.021517400647588343,0.022698380170025692,0.02339994113394213,0.024199501671104635,0.025640344768423116,0.027431300887929735,0.029755697747050062,0.03717920339132397,0.0441875023195649,0.05229945602888559,0.06333763076874213,0.07576961318379145,0.08801661929325422,0.10828631737600598,0.12428707812768802,0.14198655278350997,0.16152381905606716,0.18286868414334195,0.19724282041625518,0.23278771364554682,0.26073841187942104,0.2904445547327252,0.31110862042578025,0.3429371931537619,0.38415832312845555,0.4496689918259471,0.49828745392103757,0.5208374347077285,0.5575333368001356,0.5757665397150865,0.6040329011928425,0.6517041323991247,0.6761300635780854,0.7101394540581585,0.7300884374896253,0.7667623947454686,0.780842818859668,0.8089800399303451,0.8243149417520782,0.8413266110794655,0.852654944898069,0.8605120298705209,0.870628039713851,0.8862774026930345,0.9030442926952572,0.9296037952101159,0.9412921638313757,0.9521914658539309,0.9648015085658312,0.971228479104697,0.9751118653226765,0.9792113303152653,0.9860684880681355,0.9895590325466536,0.9946388985509582,0.9972893967466187,0.9986069965169122,0.9992925097058623,3.263361233563085E-86,7.4721004906194735E-47,5.710237990023533E-35,5.083055765510843E-19,7.097535707929832E-16,5.085316417925065E-15,1.2444995200822788E-13,1.3024168536353706E-12,2.8725617691083388E-11,3.811393966474505E-10,9.5316836432994E-10,1.8050382600504374E-9,5.2301302754968925E-9,1.5282358796864174E-8,1.9642645006055904E-8,2.791541815362481E-8,3.75482177616322E-8,6.945275995339816E-8,1.312511409304396E-7,2.144086318731167E-7,6.661808795707022E-7,1.7235675448508244E-6,2.412692077069178E-6,3.4510808155719046E-6,6.455148396485284E-6,1.031762921302425E-5,1.3759318786396284E-5,1.9725332648461055E-5,3.2046690299524184E-5,4.742974903146742E-5,6.302830922623668E-5,7.89387774387604E-5,1.064202056175319E-4,1.5002546740395202E-4,1.7289713628068678E-4,2.0650151554647283E-4,2.5465399324945786E-4,3.773928035733634E-4,5.595031276446282E-4,7.348587647944716E-4,0.0013041491207613721,0.0016428557579681489,0.0021218603900897224,0.002775900174047328,0.003276107770238893,0.003972275035490889,0.0047768696562748856,0.0056320115742297455,0.0063144753517655906,0.006699721288995697,0.008029858783208544,0.009010555929755516,0.010215101651547577,0.012424138342996402,0.01287698796683443,0.014187654139699265,0.01703056884000289,0.01854567988736944,0.020738872640341396,0.022279520503709772,0.023176782248854798,0.02437525307502939,0.025413531792295416,0.025848252539087034,0.026354562915943618,0.026831922388968518,0.027186493499819674,0.027376558090565835,0.027711374662952228,0.02811525231718442,0.028313304831039103,0.028579687779468444,0.028709315518438264,0.02885968545314999,0.02895725600744077,0.029119423488688866,0.029332990211274997,0.02953261814364385,0.029668010303353577,0.029794618420406628,0.029852124395984624,0.02990953845868244,0.030005918444094518,0.030078426955541197,0.030172664860756843,0.03029553756074085,0.03054118512099305,0.03084289126401306,0.0313147669734303,0.03169801461898682,0.032454096770389414,0.03290853277541719,0.033614064922413485,0.03615521366819891,0.037576252103436326,0.1163595974539705,0.5330941025006767,0.6080330208085786,0.7776168585643833,0.960612880780629,1.0],
 &quot;percentile&quot;:[0.0,1.0,2.0,3.0,4.0,5.0,6.0,7.0,8.0,9.0,10.0,11.0,12.0,13.0,14.0,15.0,16.0,17.0,18.0,19.0,20.0,21.0,22.0,23.0,24.0,25.0,26.0,27.0,28.0,29.0,30.0,31.0,32.0,33.0,34.0,35.0,36.0,37.0,38.0,39.0,40.0,41.0,42.0,43.0,44.0,45.0,46.0,47.0,48.0,49.0,50.0,51.0,52.0,53.0,54.0,55.0,56.0,57.0,58.0,59.0,60.0,61.0,62.0,63.0,64.0,65.0,66.0,67.0,68.0,69.0,70.0,71.0,72.0,73.0,74.0,75.0,76.0,77.0,78.0,79.0,80.0,81.0,82.0,83.0,84.0,85.0,86.0,87.0,88.0,89.0,90.0,91.0,92.0,93.0,94.0,95.0,96.0,97.0,98.0,99.0,100.0,0.0,1.0,2.0,3.0,4.0,5.0,6.0,7.0,8.0,9.0,10.0,11.0,12.0,13.0,14.0,15.0,16.0,17.0,18.0,19.0,20.0,21.0,22.0,23.0,24.0,25.0,26.0,27.0,28.0,29.0,30.0,31.0,32.0,33.0,34.0,35.0,36.0,37.0,38.0,39.0,40.0,41.0,42.0,43.0,44.0,45.0,46.0,47.0,48.0,49.0,50.0,51.0,52.0,53.0,54.0,55.0,56.0,57.0,58.0,59.0,60.0,61.0,62.0,63.0,64.0,65.0,66.0,67.0,68.0,69.0,70.0,71.0,72.0,73.0,74.0,75.0,76.0,77.0,78.0,79.0,80.0,81.0,82.0,83.0,84.0,85.0,86.0,87.0,88.0,89.0,90.0,91.0,92.0,93.0,94.0,95.0,96.0,97.0,98.0,99.0,100.0],
 &quot;sampling&quot;:[&quot;uniform&quot;,&quot;uniform&quot;,&quot;uniform&quot;,&quot;uniform&quot;,&quot;uniform&quot;,&quot;uniform&quot;,&quot;uniform&quot;,&quot;uniform&quot;,&quot;uniform&quot;,&quot;uniform&quot;,&quot;uniform&quot;,&quot;uniform&quot;,&quot;uniform&quot;,&quot;uniform&quot;,&quot;uniform&quot;,&quot;uniform&quot;,&quot;uniform&quot;,&quot;uniform&quot;,&quot;uniform&quot;,&quot;uniform&quot;,&quot;uniform&quot;,&quot;uniform&quot;,&quot;uniform&quot;,&quot;uniform&quot;,&quot;uniform&quot;,&quot;uniform&quot;,&quot;uniform&quot;,&quot;uniform&quot;,&quot;uniform&quot;,&quot;uniform&quot;,&quot;uniform&quot;,&quot;uniform&quot;,&quot;uniform&quot;,&quot;uniform&quot;,&quot;uniform&quot;,&quot;uniform&quot;,&quot;uniform&quot;,&quot;uniform&quot;,&quot;uniform&quot;,&quot;uniform&quot;,&quot;uniform&quot;,&quot;uniform&quot;,&quot;uniform&quot;,&quot;uniform&quot;,&quot;uniform&quot;,&quot;uniform&quot;,&quot;uniform&quot;,&quot;uniform&quot;,&quot;uniform&quot;,&quot;uniform&quot;,&quot;uniform&quot;,&quot;uniform&quot;,&quot;uniform&quot;,&quot;uniform&quot;,&quot;uniform&quot;,&quot;uniform&quot;,&quot;uniform&quot;,&quot;uniform&quot;,&quot;uniform&quot;,&quot;uniform&quot;,&quot;uniform&quot;,&quot;uniform&quot;,&quot;uniform&quot;,&quot;uniform&quot;,&quot;uniform&quot;,&quot;uniform&quot;,&quot;uniform&quot;,&quot;uniform&quot;,&quot;uniform&quot;,&quot;uniform&quot;,&quot;uniform&quot;,&quot;uniform&quot;,&quot;uniform&quot;,&quot;uniform&quot;,&quot;uniform&quot;,&quot;uniform&quot;,&quot;uniform&quot;,&quot;uniform&quot;,&quot;uniform&quot;,&quot;uniform&quot;,&quot;uniform&quot;,&quot;uniform&quot;,&quot;uniform&quot;,&quot;uniform&quot;,&quot;uniform&quot;,&quot;uniform&quot;,&quot;uniform&quot;,&quot;uniform&quot;,&quot;uniform&quot;,&quot;uniform&quot;,&quot;uniform&quot;,&quot;uniform&quot;,&quot;uniform&quot;,&quot;uniform&quot;,&quot;uniform&quot;,&quot;uniform&quot;,&quot;uniform&quot;,&quot;uniform&quot;,&quot;uniform&quot;,&quot;uniform&quot;,&quot;uniform&quot;,&quot;consistent&quot;,&quot;consistent&quot;,&quot;consistent&quot;,&quot;consistent&quot;,&quot;consistent&quot;,&quot;consistent&quot;,&quot;consistent&quot;,&quot;consistent&quot;,&quot;consistent&quot;,&quot;consistent&quot;,&quot;consistent&quot;,&quot;consistent&quot;,&quot;consistent&quot;,&quot;consistent&quot;,&quot;consistent&quot;,&quot;consistent&quot;,&quot;consistent&quot;,&quot;consistent&quot;,&quot;consistent&quot;,&quot;consistent&quot;,&quot;consistent&quot;,&quot;consistent&quot;,&quot;consistent&quot;,&quot;consistent&quot;,&quot;consistent&quot;,&quot;consistent&quot;,&quot;consistent&quot;,&quot;consistent&quot;,&quot;consistent&quot;,&quot;consistent&quot;,&quot;consistent&quot;,&quot;consistent&quot;,&quot;consistent&quot;,&quot;consistent&quot;,&quot;consistent&quot;,&quot;consistent&quot;,&quot;consistent&quot;,&quot;consistent&quot;,&quot;consistent&quot;,&quot;consistent&quot;,&quot;consistent&quot;,&quot;consistent&quot;,&quot;consistent&quot;,&quot;consistent&quot;,&quot;consistent&quot;,&quot;consistent&quot;,&quot;consistent&quot;,&quot;consistent&quot;,&quot;consistent&quot;,&quot;consistent&quot;,&quot;consistent&quot;,&quot;consistent&quot;,&quot;consistent&quot;,&quot;consistent&quot;,&quot;consistent&quot;,&quot;consistent&quot;,&quot;consistent&quot;,&quot;consistent&quot;,&quot;consistent&quot;,&quot;consistent&quot;,&quot;consistent&quot;,&quot;consistent&quot;,&quot;consistent&quot;,&quot;consistent&quot;,&quot;consistent&quot;,&quot;consistent&quot;,&quot;consistent&quot;,&quot;consistent&quot;,&quot;consistent&quot;,&quot;consistent&quot;,&quot;consistent&quot;,&quot;consistent&quot;,&quot;consistent&quot;,&quot;consistent&quot;,&quot;consistent&quot;,&quot;consistent&quot;,&quot;consistent&quot;,&quot;consistent&quot;,&quot;consistent&quot;,&quot;consistent&quot;,&quot;consistent&quot;,&quot;consistent&quot;,&quot;consistent&quot;,&quot;consistent&quot;,&quot;consistent&quot;,&quot;consistent&quot;,&quot;consistent&quot;,&quot;consistent&quot;,&quot;consistent&quot;,&quot;consistent&quot;,&quot;consistent&quot;,&quot;consistent&quot;,&quot;consistent&quot;,&quot;consistent&quot;,&quot;consistent&quot;,&quot;consistent&quot;,&quot;consistent&quot;,&quot;consistent&quot;,&quot;consistent&quot;,&quot;consistent&quot;,&quot;consistent&quot;]
 },

diff --git a/docs/cases/Corla24Dist/Corla24Dist-AllGt005.html b/docs/cases/Corla24Dist/Corla24Dist-AllGt005.html
@@ -5,7 +5,7 @@
        &lt;script type=&quot;text/javascript&quot; data-lets-plot-script=&quot;library&quot; src=&quot;https://cdn.jsdelivr.net/gh/JetBrains/lets-plot@v4.7.3/js-package/distr/lets-plot.min.js&quot;>&lt;/script>
    &lt;/head>
    &lt;body>
-          &lt;div id=&quot;22ou7i&quot;>&lt;/div>
+          &lt;div id=&quot;fr7Bto&quot;>&lt;/div>
    &lt;script type=&quot;text/javascript&quot; data-lets-plot-script=&quot;plot&quot;>
    
    (function() {
@@ -30,7 +30,7 @@
        };
    }
    
-   const containerDiv = document.getElementById(&quot;22ou7i&quot;);
+   const containerDiv = document.getElementById(&quot;fr7Bto&quot;);
    let fig = null;
    
    function renderPlot() {
@@ -38,7 +38,7 @@
            const plotSpec = {
 &quot;ggtitle&quot;:{
 &quot;text&quot;:&quot;Corla24 Percentiles of contests' measured risk&quot;,
-&quot;subtitle&quot;:&quot;uniform nmvrs=4897; consistent: target and contests > .005 margin, nmvrs=25382&quot;
+&quot;subtitle&quot;:&quot;nmvrs: uniform=4897, consistent=25382: targeted and contests margin >.005&quot;
 },
 &quot;mapping&quot;:{
 },

diff --git a/docs/cases/CorlaCountyAudits.md b/docs/cases/CorlaCountyAudits.md
@@ -1,4 +1,4 @@
-# Colorado Statewide Election 2024
+# Colorado Statewide election by Counties 2024
 05/14/2026
 
 * 4,767,518 ballot cast (Colorado 2024 General Election) in 63 Counties.
@@ -131,6 +131,7 @@ needing less than 150 samples:
 
 * Note the number of total samples: uniform = 4897, consistent = 4818. The 35 sample cutoff was chosen to
   make these approximately equal.
+* The consistent sampling is quite a bit better, with over 65% of contests under the risk limit.
 
 The contests selected for auditing are the targeted contests plus all contests needing less than 100 samples:
 
@@ -149,8 +150,8 @@ The next three plots have the targeted contests plus all contests with margins g
 
 The last scenarios emphasize getting as many contests as possible under the limit. Yet these contests are probably the least
 interesting because they arent close. The advantage of consistent sampling is that one has to explicity choose which contests
-to audit. But you can see exactly what each will require in sample sizes. You can run "what if" scenarios until you are satisfied
-with what result you will get, and at what cost. Further, if there are no errors (and all the ballots selected can be accurately found), 
+to audit, the seeing exactly what is required in sample size. You can run "what if" scenarios until you are satisfied
+with the result and the cost. Further, if there are no errors (and all the ballots selected can be accurately found), 
 the estimated sample sizes will be exact, and there will be no need to have multiple rounds.
 
 The number of samples needed can be shown by county. Each county could make its own choices of which contests to audit, and immediately see the
@@ -160,11 +161,11 @@ see the column labeled **nmvrsConsistent**:
 <img src="Corla24Dist/AllGt005ByCounty.png" alt="AllGt005 samples by County">
 
 In order to do consistent sampling we would like to have access to the CVRs, and they must record the undervotes.
-However, consistent sampling doesnt actually need the CVRs unless they get selected for the audit. What we do need is an 
+However, consistent sampling doesnt actually need the CVR unless it gets selected for the audit. What we do need is an 
 accurate list of the contests that are on each ballot. I imagine that each county has a relatively small number of "ballot styles". 
 If they included the ballot style on the manifest for each ballot, we could do consistent sampling from that.
 
-A _publicly verifiable_ audit needs the CVRS to be publically "commited to" before the audit starts, to ensure that the election
+A _publicly verifiable_ audit needs the CVRS to be publically _commited to_ before the audit starts, to ensure that the election
 authority cant cheat on the audit. But if releasing the actual votes is impossible for now, then ballot styles in the manifest 
 would be a good first step. 
 